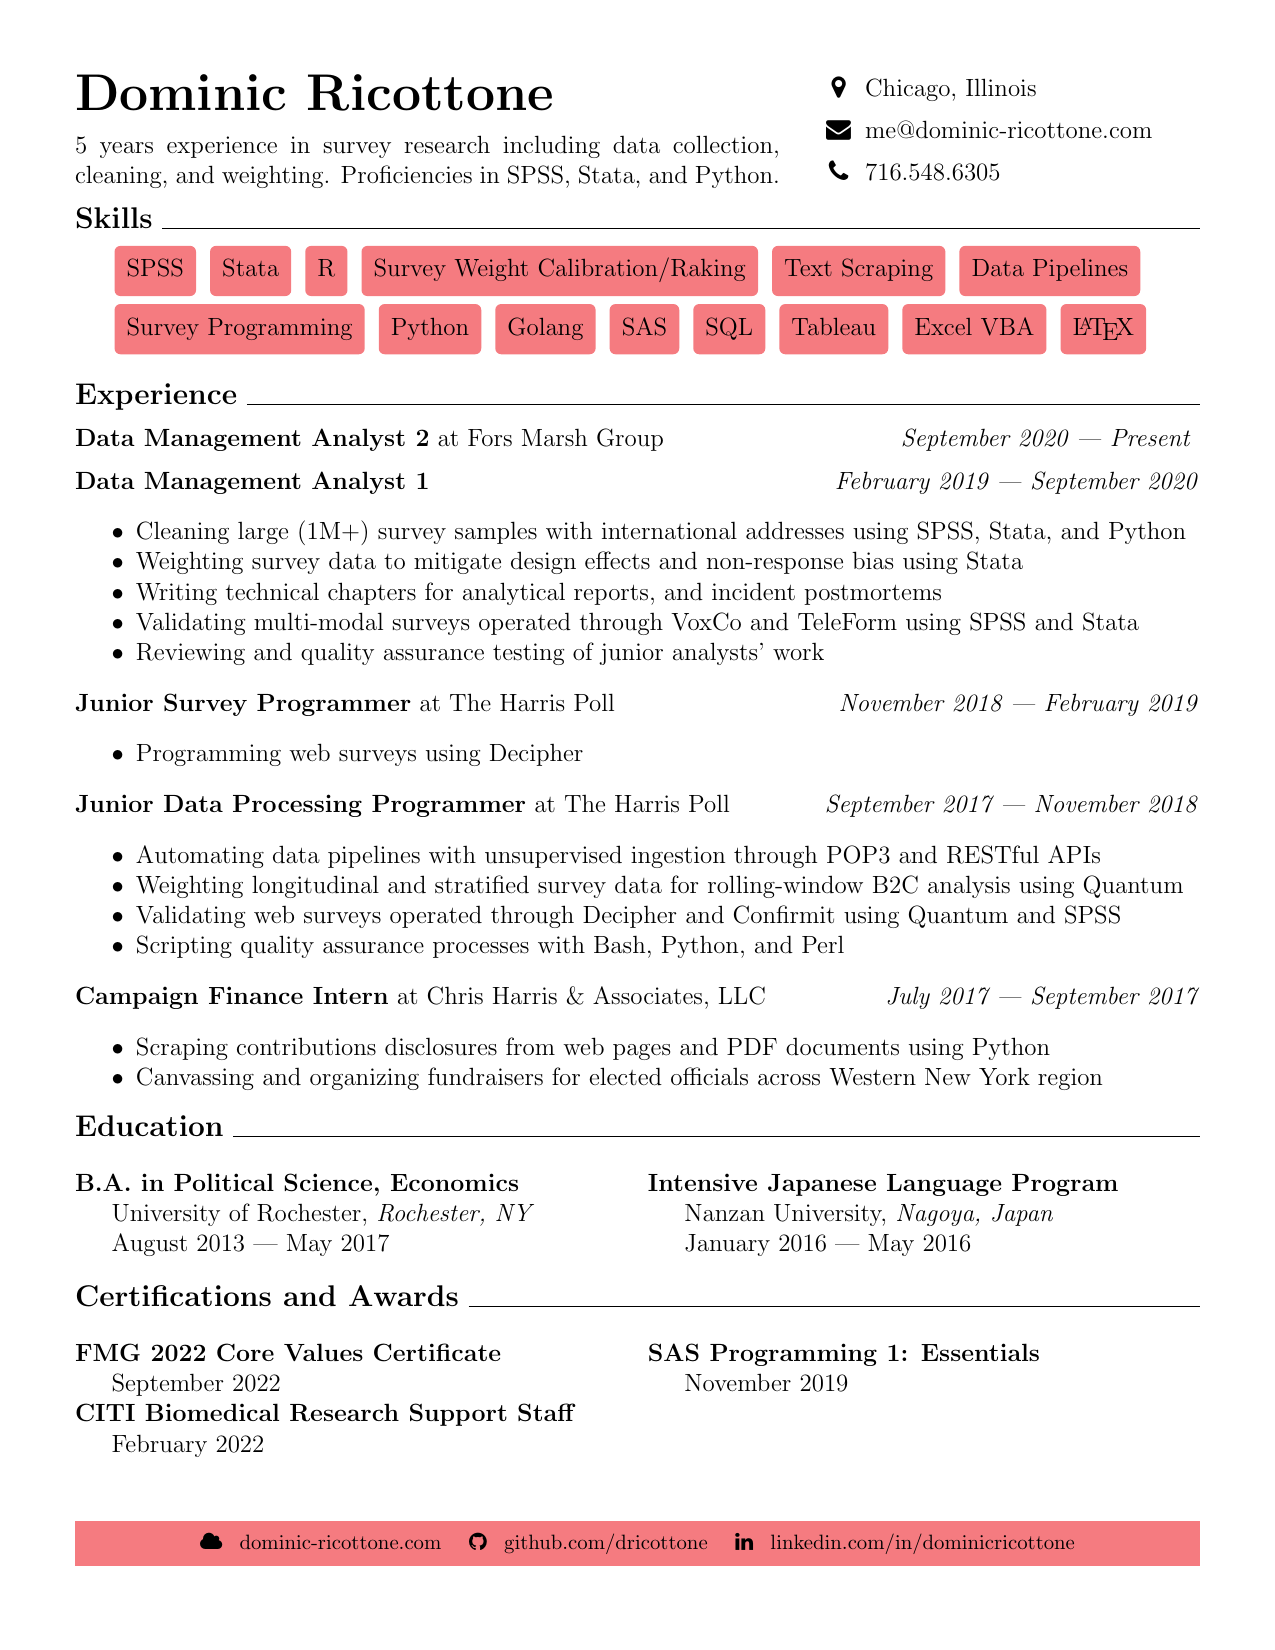
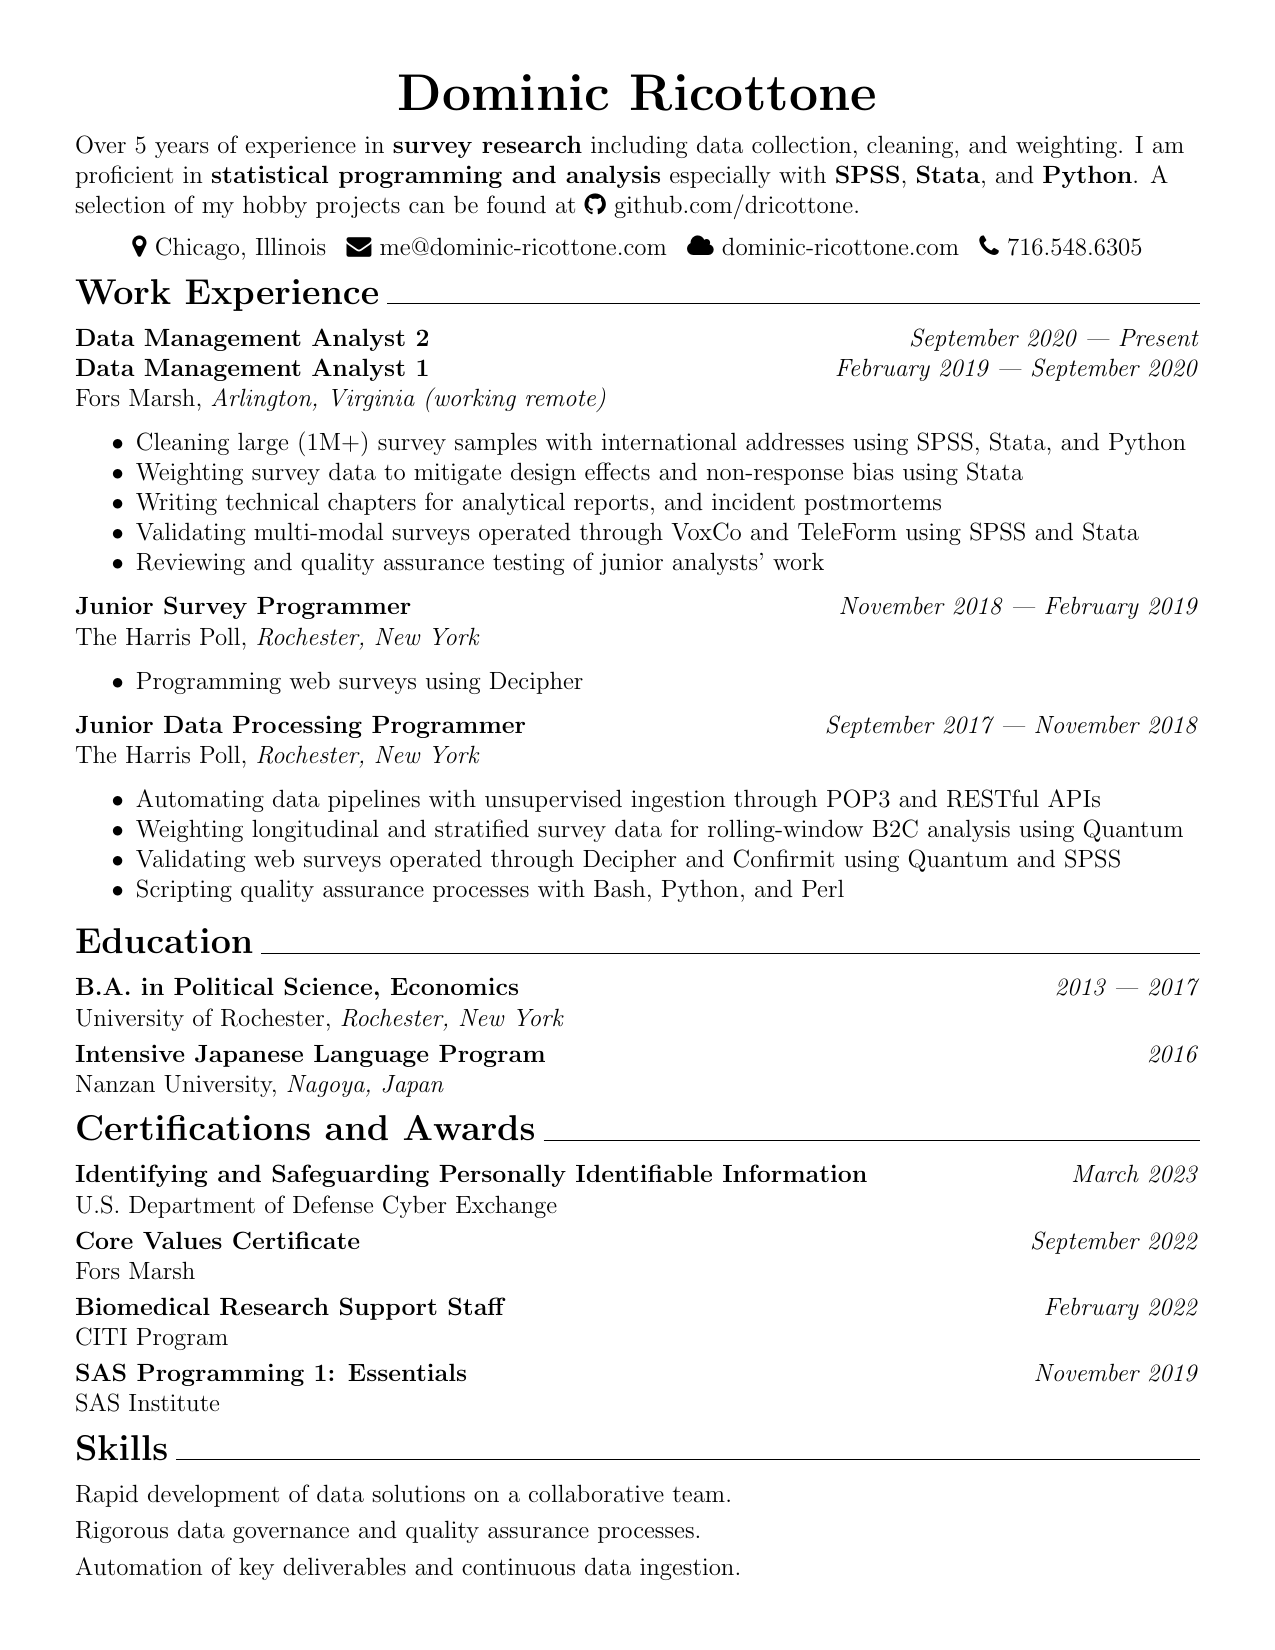
Simplified appearance of resume

diff --git a/document.tex b/document.tex
@@ -7,21 +7,8 @@
 \usepackage[hidelinks]{hyperref}
 \urlstyle{same}
 
-% double-spaced lines
-%\usepackage{setspace}
-%\doublespacing
-
 % suppress pagination
 \pagenumbering{gobble}
-
-% suppress paragraph indentation
-%\setlength{\parindent}{0pt}
-
-% equal-width columns
-\usepackage{multicol}
-
-% variable-width columns
-\usepackage{vwcol}
 
 % icons
 \usepackage{fontawesome}
@@ -30,64 +17,46 @@
 \usepackage{enumitem}
 \setitemize{itemsep=0pt,parsep=0pt,partopsep=0pt}
 
-% colored background
-\usepackage[dvipsnames]{xcolor}
-\usepackage{mdframed}
-\usepackage[most]{tcolorbox}
-\tcbset{on line,left=3pt,right=3pt,top=2pt,bottom=2pt,colback=Salmon,frame empty}
-
 \begin{document}
-\begin{vwcol}[widths={0.65,0.35},justify=flush,rule=0pt]
-\Huge
-\noindent \textbf{Dominic Ricottone}
-\normalsize
 
+
+
+\centering
+{\textbf{\Huge Dominic Ricottone}}
+
+
+
+\raggedright
 \vspace{.5em}
-\noindent
-5 years experience in survey research including data collection, cleaning, and weighting.
-Proficiencies in SPSS, Stata, and Python.
+Over 5 years of experience in \textbf{survey research}
+including data collection, cleaning, and weighting.
+I am proficient in \textbf{statistical programming and analysis} especially with
+\textbf{SPSS}, \textbf{Stata}, and \textbf{Python}.
+A selection of my hobby projects can be found at
+\faicon{github} \href{https://github.com/dricottone}{github.com/dricottone}.
 
-\noindent \makebox[1.5em]{\faicon{map-marker}} Chicago, Illinois
 
+
+\centering
 \vspace{.5em}
-\noindent \makebox[1.5em]{\faicon{envelope}} \href{mailto:me@dominic-ricottone.com}{me@dominic-ricottone.com}
+\faicon{map-marker} Chicago, Illinois
+\enspace
+\faicon{envelope} \href{mailto:me@dominic-ricottone.com}{me@dominic-ricottone.com}
+\enspace
+\faicon{cloud} \href{https://www.dominic-ricottone.com}{dominic-ricottone.com}
+\enspace
+\faicon{phone} 716.548.6305
 
-\vspace{.5em}
-\noindent \makebox[1.5em]{\faicon{phone}} 716.548.6305
-\end{vwcol}
 
-\vspace{.5em}
-\large
-\noindent \textbf{Skills} \hrulefill
-\normalsize
 
-\vspace{.5em}
-\tcbox{\strut SPSS}
-\tcbox{\strut Stata}
-\tcbox{\strut R}
-\tcbox{\strut Survey Weight Calibration/Raking}
-\tcbox{\strut Text Scraping}
-\tcbox{\strut Data Pipelines}
-
-\tcbox{\strut Survey Programming}
-\tcbox{\strut Python}
-\tcbox{\strut Golang}
-\tcbox{\strut SAS}
-\tcbox{\strut SQL}
-\tcbox{\strut Tableau}
-\tcbox{\strut Excel VBA}
-\tcbox{\strut \LaTeX}
-\vspace{1em}
-
-\large
-\noindent \textbf{Experience} \hrulefill
-\normalsize
+\raggedright
+\vspace{.75em}
+\textbf{\Large Work Experience} \hrulefill
 \vspace{.5em}
 
-\noindent \textbf{Data Management Analyst 2} at Fors Marsh Group \hfill \textit{September 2020 --- Present}
-\vspace{.5em}
-
-\noindent \textbf{Data Management Analyst 1} \hfill \textit{February 2019 --- September 2020}
+\textbf{Data Management Analyst 2} \hfill \textit{September 2020 --- Present}
+\par \textbf{Data Management Analyst 1} \hfill \textit{February 2019 --- September 2020}
+\par Fors Marsh, \textit{Arlington, Virginia (working remote)}
 \begin{itemize}[]
 \item Cleaning large (1M+) survey samples with international addresses using SPSS, Stata, and Python
 \item Weighting survey data to mitigate design effects and non-response bias using Stata
@@ -96,12 +65,14 @@ Proficiencies in SPSS, Stata, and Python.
 \item Reviewing and quality assurance testing of junior analysts' work
 \end{itemize}
 
-\noindent \textbf{Junior Survey Programmer} at The Harris Poll \hfill \textit{November 2018 --- February 2019}
+\textbf{Junior Survey Programmer} \hfill \textit{November 2018 --- February 2019}
+\par The Harris Poll, \textit{Rochester, New York}
 \begin{itemize}[]
 \item Programming web surveys using Decipher
 \end{itemize}
 
-\noindent \textbf{Junior Data Processing Programmer} at The Harris Poll \hfill \textit{September 2017 --- November 2018}
+\textbf{Junior Data Processing Programmer} \hfill \textit{September 2017 --- November 2018}
+\par The Harris Poll, \textit{Rochester, New York}
 \begin{itemize}[]
 \item Automating data pipelines with unsupervised ingestion through POP3 and RESTful APIs
 \item Weighting longitudinal and stratified survey data for rolling-window B2C analysis using Quantum
@@ -109,53 +80,55 @@ Proficiencies in SPSS, Stata, and Python.
 \item Scripting quality assurance processes with Bash, Python, and Perl
 \end{itemize}
 
-\noindent \textbf{Campaign Finance Intern} at Chris Harris \& Associates, LLC \hfill \textit{July 2017 --- September 2017}
-\begin{itemize}[]
-\item Scraping contributions disclosures from web pages and PDF documents using Python
-\item Canvassing and organizing fundraisers for elected officials across Western New York region
-\end{itemize}
 
-\large
-\noindent \textbf{Education} \hrulefill
-\normalsize
 
-\begin{multicols}{2}[]
-\noindent \textbf{B.A. in Political Science, Economics} \par
-University of Rochester, \textit{Rochester, NY} \par
-August 2013 --- May 2017
+\vspace{.5em}
+\textbf{\Large Education} \hrulefill
+\vspace{.5em}
 
-\noindent \textbf{Intensive Japanese Language Program} \par
-Nanzan University, \textit{Nagoya, Japan} \par
-January 2016 --- May 2016
-\end{multicols}
+\textbf{B.A. in Political Science, Economics} \hfill \textit{2013 --- 2017}
+\par University of Rochester, \textit{Rochester, New York}
 
-\large
-\noindent \textbf{Certifications and Awards} \hrulefill
-\normalsize
+\vspace{.25em}
+\textbf{Intensive Japanese Language Program} \hfill \textit{2016}
+\par Nanzan University, \textit{Nagoya, Japan}
 
-\begin{multicols}{2}[]
-\noindent \textbf{FMG 2022 Core Values Certificate} \par
-September 2022
 
-\noindent \textbf{CITI Biomedical Research Support Staff} \par
-February 2022
 
-\noindent \textbf{SAS Programming 1: Essentials} \par
-November 2019
+\vspace{.75em}
+\textbf{\Large Certifications and Awards} \hrulefill
+\vspace{.5em}
 
-\vfill\null
+\textbf{Identifying and Safeguarding Personally Identifiable Information} \hfill \textit{March 2023}
+\par U.S. Department of Defense Cyber Exchange
 
-\end{multicols}
+\vspace{.25em}
+\textbf{Core Values Certificate} \hfill \textit{September 2022}
+\par Fors Marsh
 
-\vfill
-\begin{mdframed}[hidealllines=true,backgroundcolor=Salmon]
-\footnotesize \centering
-\faicon{cloud} \enspace \href{https://www.dominic-ricottone.com}{dominic-ricottone.com}
-\quad
-\faicon{github} \enspace \href{https://github.com/dricottone}{github.com/dricottone}
-\quad
-\faicon{linkedin} \enspace \href{https://www.linkedin.com/in/dominicricottone}{linkedin.com/in/dominicricottone}
-\end{mdframed}
+\vspace{.25em}
+\textbf{Biomedical Research Support Staff} \hfill \textit{February 2022}
+\par CITI Program
+
+\vspace{.25em}
+\textbf{SAS Programming 1: Essentials} \hfill \textit{November 2019}
+\par SAS Institute
+
+
+
+\vspace{.75em}
+\textbf{\Large Skills} \hrulefill
+\vspace{.5em}
+
+Rapid development of data solutions on a collaborative team.
+
+\vspace{.25em}
+Rigorous data governance and quality assurance processes.
+
+\vspace{.25em}
+Automation of key deliverables and continuous data ingestion.
+
+
 
 \end{document}
 
